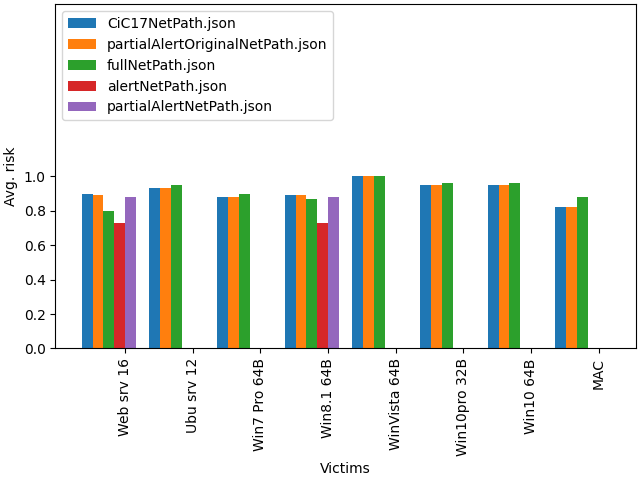
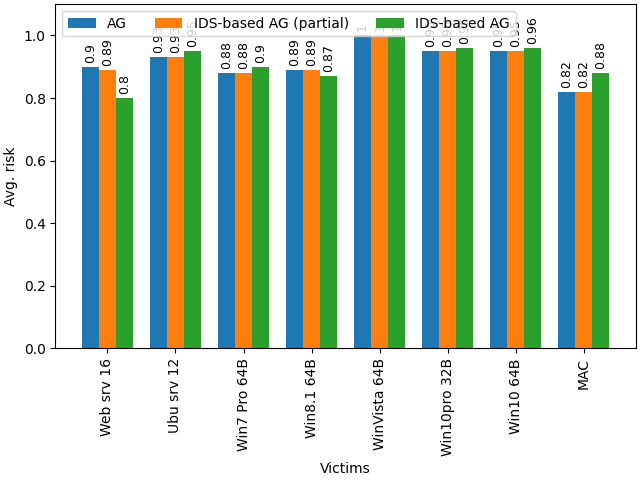
charts

diff --git a/agBuilder.py b/agBuilder.py
@@ -270,6 +270,13 @@ def compute_paths(G,vulnerabilities,filePath,sources=[],goals=[]):
     
     print(endTime-startTime)
 
+def renameModel(strFile):
+    if "alertNet" in strFile: return "onlyAlert"
+    if "CiC17" in strFile: return "AG"
+    if "fullNet" in strFile: return "IDS-based AG"
+    if "partialAlertNet" in strFile: return "onlyAlert (partial)"
+    else: return "IDS-based AG (partial)"
+
 def plot_risk(metric, listNetFile):
     victims_ip={
         "Web srv 16":["192.168.10.50"],
@@ -301,7 +308,7 @@ def plot_risk(metric, listNetFile):
                         if v not in victims_risk.keys(): victims_risk[v] = [p[metric]]
                         else: victims_risk[v].append(p[metric])
         
-        model = pathFile.split("paths/")[1]
+        model = renameModel(pathFile.split("paths/")[1])
         dictVictimRisk[model] = victims_risk
     
     # with open(pathFile) as nf:
@@ -355,10 +362,10 @@ def plot_risk(metric, listNetFile):
 
     x = np.arange(len(victims))  # the label locations
     num_in_group = len(dictVictimRisk.keys())
-    gap = 0.2
+    gap = 0.25
     width = (1 - gap) / num_in_group  # the width of the bars
     # width = 0.25  # the width of the bars
-    multiplier = 0
+    multiplier = 1.5
 
     fig, ax = plt.subplots(layout='constrained')
 
@@ -366,15 +373,15 @@ def plot_risk(metric, listNetFile):
         # offset = width * multiplier
         offset = width * multiplier - (1 - gap) / 2
         rects = ax.bar(x + offset, measurement, width, label=attribute)
-        # ax.bar_label(rects, padding=3, fontsize=9, rotation=45)
+        ax.bar_label(rects, padding=3, fontsize=9, rotation=90)
         multiplier += 1
 
     ax.set_ylabel('Avg. risk')
     ax.set_xlabel('Victims')
     ax.set_xticks(x + width, victims, rotation=90)
     ax.set_yticks(np.arange(0, 1.1, 0.2))
-    ax.legend(loc='upper left')
-    ax.set_ylim(0, 2)
+    ax.legend(loc='upper left', ncol=3)
+    ax.set_ylim(0, 1.1)
 
     plt.savefig("results/"+metric+".png")
 
@@ -400,7 +407,7 @@ if __name__ == "__main__":
     #         '192.168.10.15','192.168.10.25'
     #         ])
     
-    plot_risk("risk",[originalNet,partialAlertOriginalNet,fullNet,onlyAlertNet,partialAlertNet]) #{impact, likelihood, risk}
-    plot_risk("impact",[originalNet,partialAlertOriginalNet,fullNet,onlyAlertNet,partialAlertNet])
-    plot_risk("likelihood",[originalNet,partialAlertOriginalNet,fullNet,onlyAlertNet,partialAlertNet])
+    plot_risk("risk",[originalNet,partialAlertOriginalNet,fullNet])#,onlyAlertNet,partialAlertNet]) #{impact, likelihood, risk}
+    plot_risk("impact",[originalNet,partialAlertOriginalNet,fullNet])#,onlyAlertNet,partialAlertNet])
+    plot_risk("likelihood",[originalNet,partialAlertOriginalNet,fullNet])#,onlyAlertNet,partialAlertNet])
     
